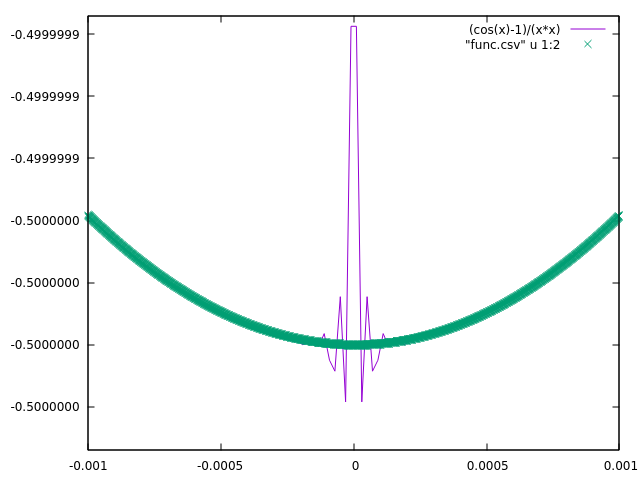
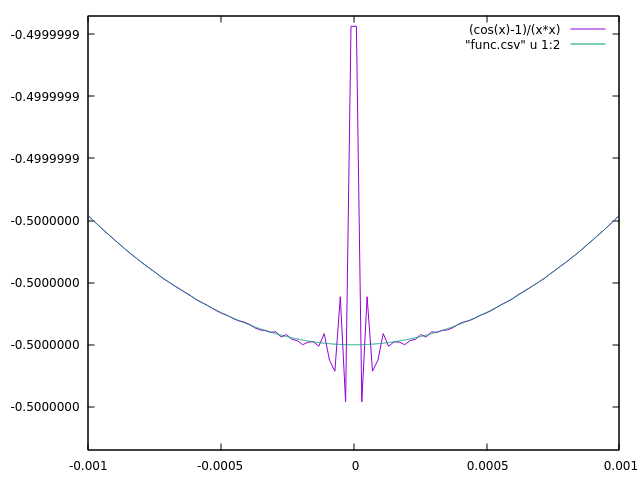
Pràctica 1

Changed region(s): [[0.125, 0.4375, 0.9688, 0.75], [0.9062, 0.0625, 0.9375, 0.0938]]

diff --git a/Pràctica 1 - Estudi d'errors/func.c b/Pràctica 1 - Estudi d'errors/func.c
@@ -1,11 +1,6 @@
 /* func.c */
 /*
   MARC BALLESTERO RIBO (M1b)
-
-  Calcula terme a terme el valor de les sumes parcials de la sèrie harmonica
-  i s'atura quan s_n-1 = s_n
-  Posteriorment, calcula l'ultima suma parcial sumant els termes en ordre invers
-  i compara els resultats.
 */
 
 #include <stdio.h>
@@ -43,9 +38,10 @@ int main(void) {
         x=0 i en ordre 4, amb la qual cosa, tenim que
           f(x) = (cosx - 1)/x^2 ~ -1/2 + x^2/24 + o(x^4)/x^2 =>
           f(x) ~ -1/2 + x^2/24, per x a prop de 0.
-        Amb aixo, l'error de f(x) calculada per aquest metode es
-          df(x) = |x|/12 * dx
-        on dx es l'error en x.
+        Amb aixo, l'error de f(x) calculada per aquest metode es la resta de
+        Lagrange
+          df(x) = cos(s)/6!*x^2
+        on s esta entre x i 0.
         Construim l'algorisme prenent com a punt d'inici x_i = -0.001, i en
         cada iteracio incrementem aquest valor en 1e-6. Amb aixo, tenim que
         representem x amb una precisio de 1e-6, per la qual cosa,
@@ -54,5 +50,5 @@ int main(void) {
     (c) Si representem ambdues funcions (grafica2.png), notem que la calcualda
         per l'algorisme presentat es correspon amb el comportament esperat.
         Observant la grafica, estimem l'error del calcul de l'apartat (a) de
-        l'ordre de 5e-6.      
+        l'ordre de 5e-6.
   */

diff --git a/Pràctica 1 - Estudi d'errors/succ-float.c b/Pràctica 1 - Estudi d'errors/succ-float.c
@@ -13,15 +13,35 @@
 
 int main(void) {
   float a = 6.2, b = -.5;
-  float xn, xn1 = .01, dxn, dxn1 = .01*FLOAT_ERR;
+  float xn, xn1 = .01, dxn, dxn1 = xn1*FLOAT_ERR;
   int n;
 
   for (n = 0; n <= 40; ++n) {
     printf("x_%d = %+.20e\t+-\t%+.20e\n", n, xn1, dxn1);
     xn = exp(-a*pow(xn1, 2)) + b;
-    dxn = 2*a*xn*exp(-a*pow(xn, 2)) * dxn1;
+    dxn = 2.*a*fabs(xn1)*exp(-a*pow(xn1, 2)) * dxn1;
     xn1 = xn, dxn1 = dxn;
   }
 
   return 0;
 }
+
+
+/*
+  RESPOSTES A LES PREGUNTES
+    (a) Obtenim els valors
+          float:  x_40 = -2.14(16)e-1
+          double: x_40 = -1.89063797247(18)e-1
+        que no son compatibles, i difereixen absolutament en aproximadament
+        0.025.
+    (b) Incloem en els programes la propagacio de l'error en x_{n+1}, partint
+        dels errors inicials que es diuen en l'enunciat.
+        Observem que, d'una banda, el valor obtingut amb el tipus double es
+        mes proper a zero, i de l'altra, l'error absolut que te es molt inferior
+        al que s'obte amb el tipus float. De fet, els errors relatius en les
+        dades son
+          float:  dx_40/x_40 = 7.4%
+          double: dx_40/x_40 = 0.00000001%
+        amb la qual cosa, concloem que la precisio dels calculs amb el tipus
+        double es molt superior a la del tipus float.
+*/

diff --git a/Pràctica 1 - Estudi d'errors/succ-double.c b/Pràctica 1 - Estudi d'errors/succ-double.c
@@ -13,13 +13,13 @@
 
 int main(void) {
   double a = 6.2, b = -.5;
-  double xn, xn1 = .01, dxn, dxn1 = .01*DOUBLE_ERR;
+  double xn, xn1 = .01, dxn, dxn1 = xn1*DOUBLE_ERR;
   int n;
 
   for (n = 0; n <= 40; ++n) {
     printf("x_%d = %+.20e\t+-\t%+.20e\n", n, xn1, dxn1);
     xn = exp(-a*pow(xn1, 2)) + b;
-    dxn = 2*a*xn*exp(-a*pow(xn, 2)) * dxn1;
+    dxn = 2.*a*fabs(xn1)*exp(-a*pow(xn1, 2)) * dxn1;
     xn1 = xn, dxn1 = dxn;
   }
 
